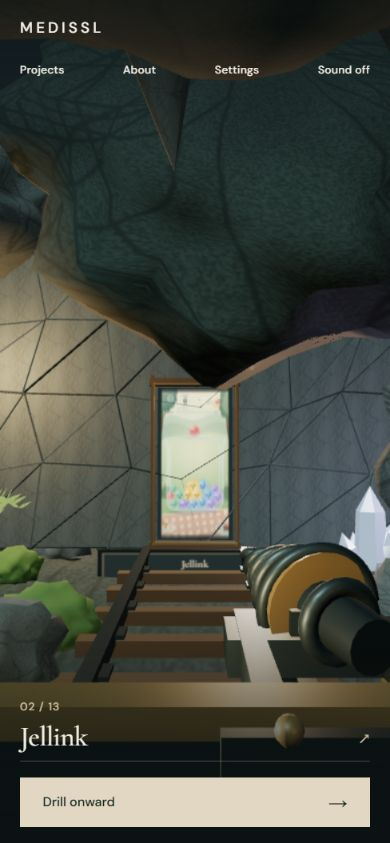
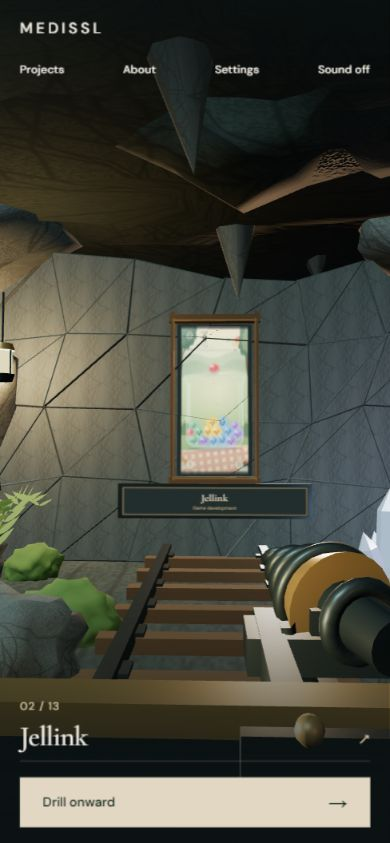
fix: keep project displays clear beneath a continuous stone ceiling

diff --git a/src/components/mine/scene.ts b/src/components/mine/scene.ts
@@ -81,7 +81,7 @@ export function createMine(host: HTMLElement, events: Events, reduced: boolean, 
       rock(side * (width - 0.25), 0.25, z + 1.8, 2.1, 1.25, 2.5);
       rock(side * (width - 0.5), 6.7, z - 1, 2.7, 1.5, 3.5);
     }
-    rock(0.8 * Math.sin(bay), 7.8, z, 5.2, 1.7, 3.6, darkStone);
+    rock(0.8 * Math.sin(bay), 10.2, z, 5.2, 1.7, 3.6, darkStone);
   });
   const floor = mesh(new THREE.PlaneGeometry(24, 65, 36, 90), darkStone, 0, -0.14, -14); floor.rotation.x = -Math.PI / 2;
   const fp = floor.geometry.attributes.position;
@@ -163,6 +163,27 @@ export function createMine(host: HTMLElement, events: Events, reduced: boolean, 
     const x = (random() - 0.5) * 10, z = 8 - random() * 48, h = 0.6 + random() * 1.5;
     const s = mesh(new THREE.ConeGeometry(0.24 + h * 0.12, h, 7), stone, x, 6.7 - h * 0.4, z); s.rotation.z = Math.PI + random() * 0.15;
   }
+  // BEGIN OWNER-APPROVED CEILING CLOSURE — 19 October 2026.
+  // Reuse the original detailed stone and texture, keeping the underside above
+  // project displays while bridging the raised roof to the cave shoulders.
+  const ceilingCaps = bays.map((z, bay) => {
+    const cap = mesh(rockGeometry, darkStone, 0, 7.5, z);
+    cap.scale.set(8.2, 1, 4.2); cap.rotation.y = bay % 2 * Math.PI;
+    cap.updateMatrixWorld(true); return cap;
+  });
+  const ceilingRay = new THREE.Raycaster(), upward = new THREE.Vector3(0, 1, 0);
+  const needles = scene.children.filter((object): object is THREE.Mesh<THREE.ConeGeometry> =>
+    object instanceof THREE.Mesh && object.geometry instanceof THREE.ConeGeometry && object.material === stone);
+  let attachedNeedles = 0;
+  for (const needle of needles) {
+    needle.updateMatrixWorld(true);
+    const root = new THREE.Vector3(0, -needle.geometry.parameters.height / 2, 0).applyMatrix4(needle.matrixWorld);
+    ceilingRay.set(new THREE.Vector3(root.x, 0, root.z), upward);
+    const hit = ceilingRay.intersectObjects(ceilingCaps, false)[0];
+    if (hit) { needle.position.y += hit.point.y - root.y + 0.18; attachedNeedles++; }
+  }
+  host.dataset.ceilingNeedles = `${attachedNeedles}/${needles.length}`;
+  // END OWNER-APPROVED CEILING CLOSURE.
   // Batch immobile scenery by material; interactive walls and the cart remain independent.
   const batches = new Map<THREE.Material, THREE.BufferGeometry[]>();
   for (const object of [...scene.children]) {
@@ -254,8 +275,7 @@ export function createMine(host: HTMLElement, events: Events, reduced: boolean, 
     const art = project.kind === "artwork";
     const imageWidth = Math.min(4.4, 2.8 * aspect), imageHeight = imageWidth / aspect;
     const width = imageWidth + (art ? 0.5 : 0.16), height = imageHeight + (art ? 0.5 : 0.16);
-    // Owner-approved display-only clearance beneath Astra's original Jellink roof.
-    const centerY = project.id === "jellink" ? 1.65 : 3.15;
+    const centerY = 3.15;
     const bottom = centerY - height / 2, left = -width / 2;
     const canvas = wall.surface.image as HTMLCanvasElement;
     const ctx = canvas.getContext("2d")!;
@@ -295,7 +315,7 @@ export function createMine(host: HTMLElement, events: Events, reduced: boolean, 
   }
   function bindWall(wall: Wall, projectIndex: number, z: number) {
     const project = projects[projectIndex], revision = ++wall.revision;
-    wall.group.position.set(0, project.id === "jellink" ? 0.3 : 0, z); wall.group.visible = true;
+    wall.group.position.set(0, 0, z); wall.group.visible = true;
     wall.mount.position.set(0, 0, 0); wall.mount.rotation.set(0, 0, 0); wall.seams.visible = true;
     wall.chunks.forEach((chunk, i) => { chunk.position.copy(wall.origins[i]); chunk.rotation.set(0, 0, 0); });
     wall.cracks.visible = true; (wall.cracks.material as THREE.LineBasicMaterial).opacity = 0; wall.cracks.geometry.setDrawRange(0, 0);

diff --git a/docs/crystal-mine/RELEASE.md b/docs/crystal-mine/RELEASE.md
@@ -2,7 +2,7 @@
 
 ## Scope and baseline
 
-Started from clean `b5ab69c` on `codex/crystal-mine-slice`. The original approved Astra environment remains unchanged: the protected source block matches both `b55744c` and `4450f1c`. Changes to scene.ts only report elapsed time/cart speed and cancel audio on finish, skip, selection and disposal. No geometry, material, light, camera, progression, CMS, authentication or production-data changes.
+Started from clean `b5ab69c` on `codex/crystal-mine-slice`. At checkpoint 31464d7 the protected source block matched both `b55744c` and `4450f1c`. The subsequent explicit owner correction raises only the central ceiling stones from y=7.8 to y=10.2; the updated test permits only this translation and the reviewed ceiling-closure block, preserving all other baseline source. The audio-stage scene changes report elapsed time/cart speed and cancel audio on finish, skip, selection and disposal. No geometry-detail, material, light, camera, progression, CMS, authentication or production-data changes. The earlier Jellink-only lowering and wall offset are removed so its image/nameplate return together to the normal display height; other frames remain fixed.
 
 ## Audio diagnosis and recovery
 
@@ -31,3 +31,11 @@ Correct repository: https://github.com/medissl/medissl-portfolio, default branch
 Production domain: https://medissl-portfolio.vercel.app. Pre-release rollback deployment: dpl_GkAVWaTZoFTx7b3R7CyxKi3uMzcN (READY; old main). Keep this deployment and Git history until release acceptance.
 
 The owner approved the corrected sound locally and authorized the quiet chime. A preview is still required for deployed route/render/asset verification before production promotion. Preview and production evidence will be appended once available. No production deployment is claimed by this note.
+
+## Owner ceiling-clearance correction
+
+The owner requested the default mine with ceiling stones above the displays, specifically citing MauCuan and Wildfeast, and asked to raise Jellink with its nameplate. A single roof placement changes y=7.8 to y=10.2 before batching/cloning, so every repeated chamber inherits the same correction. All original rock topology, textures, materials, light/camera settings, foliage, crystals and mechanics remain. MauCuan and Wildfeast were visually confirmed clear without moving their frames. Jellink returns to the shared normal display height instead of retaining the old obstruction workaround. Production release remains pending the updated preview review.
+
+The owner additionally requested covering the sky gaps left by the roof lift and reconnecting floating dripstones. Ceiling caps reuse the exact original high-detail rock geometry and dark-stone material/texture, overlap across bays, and join the cave shoulders. Upward raycasts attach each original dripstone root to the actual cap surface before the existing material batching. No camera, lighting, texture, foliage or crystal changes. The baseline test pins the approved closure block by hash and still compares all remaining source against the original checkpoints.
+
+Final local rendered verification: 35/35 dripstone roots intersect the closed ceiling, no exposed sky in the checked Jellink/MauCuan/Wildfeast views, unobstructed images/nameplates, full quality, two walls/two tiles, and no browser errors. Checked desktop, the approximately 578px review pane and 390x844 mobile; mobile has no horizontal overflow. The build/typecheck, focused lint, environment baseline, fracture and journey regressions passed. README screenshots were refreshed from this build.

diff --git a/DESIGN.md b/DESIGN.md
@@ -1,3 +1,7 @@
+# Owner correction — ceiling clearance, 19 October 2026
+
+Raise only the central overhead stone formations in the default mine from y=7.8 to y=10.2 so they stop covering project displays (notably MauCuan and Wildfeast). Keep frames and nameplates at the normal display position. Remove the earlier Jellink-only lowering workaround so its image and nameplate return together to the same default height, as requested. Camera, other cave objects, geometry detail, materials, textures and lighting stay unchanged. Close the resulting sky gaps with overlapping copies of the same original detailed rock geometry and textured stone material, keeping their underside clear of the displays. Attach each hanging dripstone root to the actual ceiling surface. The protected test permits exactly the roof translation and the reviewed ceiling-closure block; all remaining baseline source is unchanged. This explicit owner correction supersedes the earlier prohibition only for this ceiling work.
+
 # Current art direction — mineral gallery
 
 The owner requested a global luxury visual refinement after Phase 5. Follow `docs/crystal-mine/LUXURY-REFINEMENT.md`: self-hosted Cormorant Garamond 400–500 display titles, DM Sans 400–600 UI/body/forms, deep evergreen surfaces, warm ivory and restrained champagne interaction accents. Use shared CSS tokens, dark neutral media wells, readable controls, composed negative space and authentic artwork. Avoid double ornamental frames, beige cards, blur/glass, generic gradients and decorative motion. Studio shares the identity but stays a practical CMS. The approved Astra environment and all mechanics, audio, dynamic publishing, authentication, data and original media are protected. Only station canvas typography changes; no geometry, lighting, material, camera or framing changes. Historical direction notes below are superseded. No push or deployment authorized.
